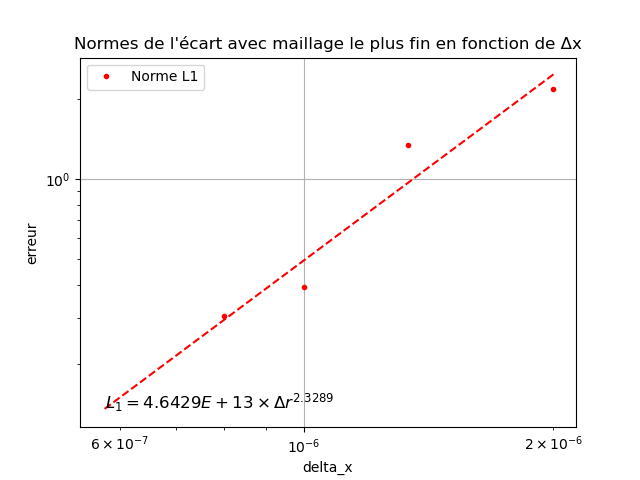
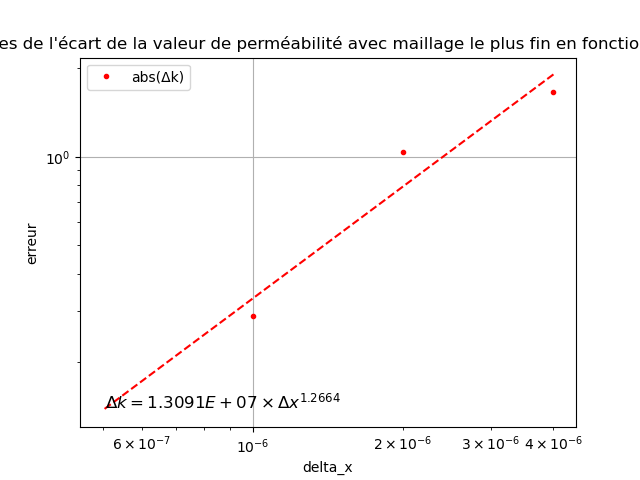
modified code for Question A, considered working version

diff --git a/src/plot_convergence_study.py b/src/plot_convergence_study.py
@@ -61,10 +61,10 @@ for i in range(0,len(erreur_vect_L1)):
 print(erreur_vect_L1)
 
 plt.figure(1)
-plt.loglog(array_x_conv[:-2], erreur_vect_L1[:-2], '.r', label = "Norme L1")
+plt.loglog(array_x_conv[:-1], erreur_vect_L1[:-1], '.r', label = "abs(Δk)")
 
 # Ajuster une loi de puissance à toutes les valeurs (en utilisant np.polyfit avec logarithmes)
-coefficients = np.polyfit(np.log(array_x_conv[0:-2]), np.log(erreur_vect_L1[0:-2]), 1)
+coefficients = np.polyfit(np.log(array_x_conv[0:-1]), np.log(erreur_vect_L1[0:-1]), 1)
 exponent_logreg = coefficients[0]
 constant_logreg = coefficients[1]
 
@@ -79,14 +79,14 @@ extrapolated_value = fit_function(array_x_conv[-1])
 plt.loglog(array_x_conv, fit_function(array_x_conv), linestyle='--', color='r')
 
 # Afficher l'équation de la régression en loi de puissance pour la norme L1
-equation_text = f'$L_1 = {np.exp(constant_logreg):.4E} \\times Δr^{{{exponent_logreg:.4f}}}$'
+equation_text = f'$Δk = {np.exp(constant_logreg):.4E} \\times Δx^{{{exponent_logreg:.4f}}}$'
 equation_text_obj = plt.text(0.05, 0.05, equation_text, fontsize=12, transform=plt.gca().transAxes, color='k')
 
 plt.xlabel("delta_x")
 plt.ylabel("erreur")
 plt.legend()
 plt.grid()
-plt.title("Normes de l'écart avec maillage le plus fin en fonction de Δx")
+plt.title("Normes de l'écart de la valeur de perméabilité avec maillage le plus fin en fonction de Δx")
 plt.savefig(outputFolder+"etude_convergence_L1.png")
 
 plt.show()

diff --git a/src/QA.m b/src/QA.m
@@ -17,7 +17,7 @@
 
 
 %% definition of convergence study arrays
-nx_array = [100,150,200,250,300,350]; % number of points
+nx_array = [50,100,200,400]; % number of points
 dx_array = 2.0e-4./nx_array; % grid size in m
 
 %% other inputs
@@ -41,10 +41,11 @@ for i_convstud = 1:length(nx_array)
     disp(i_convstud)
     NX = nx_array(i_convstud);
     dx = dx_array(i_convstud);
-    [d_equivalent]=Generate_sample(seed,filename,mean_fiber_d,std_d,poro,NX,dx);
+    filename_temp = strcat('fiber_mat',int2str(i_convstud),'.tiff')
+    [d_equivalent]=Generate_sample(seed,filename_temp,mean_fiber_d,std_d,poro,NX,dx);
 
     % calculation of the flow field and the permeability from Darcy Law
-    outtemp = LBM(filename,NX,deltaP,dx,d_equivalent);
+    outtemp = LBM(filename_temp,NX,deltaP,dx,d_equivalent);
     poro_out_array(i_convstud) = outtemp(1);
     Re_out_array(i_convstud) = outtemp(2);
     k_out_array(i_convstud) = outtemp(3);

diff --git a/src/Generate_sample.m b/src/Generate_sample.m
@@ -117,9 +117,31 @@ end
 
 function [nb_fiber,dist_d,poro_eff,d_equivalent]=distribution_of_fiber(mean_d,std_d,poro,nx,dx)
 
-dist=normrnd(mean_d,std_d,[1,10000]);
+dist=normrnd(mean_d,std_d,[1,1000000]);
 nb_fiber=1;
 poro_eff=1-sum(dist(1:nb_fiber).^2/4*pi)/(nx*dx)^2;
+
+% while poro_eff >= poro
+%     poro_eff_old=poro_eff;
+%     nb_fiber=nb_fiber+10000;
+%     poro_eff=1-sum(dist(1:nb_fiber).^2/4*pi)/(nx*dx)^2;
+% end
+
+% disp('finished first loop for generating distribution')
+
+% nb_fiber=nb_fiber-10000;
+% poro_eff=1-sum(dist(1:nb_fiber).^2/4*pi)/(nx*dx)^2;
+
+% while poro_eff >= poro
+%     poro_eff_old=poro_eff;
+%     nb_fiber=nb_fiber+100;
+%     poro_eff=1-sum(dist(1:nb_fiber).^2/4*pi)/(nx*dx)^2;
+% end
+
+% disp('finished second loop for generating distribution')
+
+% nb_fiber=nb_fiber-100;
+% poro_eff=1-sum(dist(1:nb_fiber).^2/4*pi)/(nx*dx)^2;
 
 while poro_eff >= poro
     poro_eff_old=poro_eff;

diff --git a/src/LBM.m b/src/LBM.m
@@ -54,7 +54,7 @@ k_in_micron2=mean(ux(1:NX))*mu/deltaP*(NX*dx)*1e12 %in micron^2
 out = [poro_eff, Re, k_in_micron2];
 
 % Vector plot of the flow field 
-%ux(SOLID)=0; uy(SOLID)=0;ux=reshape(ux,NX,NY)';uy=reshape(uy,NX,NY)';
-%figure(2);clf;hold on;colormap(gray(2));image(2-reshape(SOLID,NX,NY)');
-%quiver(1:NX,1:NY,ux,uy,1.5,'b');axis([0.5 NX+0.5 0.5 NY+0.5]);axis image;
-%title(['Velocity field after ',num2str(t_),' time steps']);
+ux(SOLID)=0; uy(SOLID)=0;ux=reshape(ux,NX,NY)';uy=reshape(uy,NX,NY)';
+figure(2);clf;hold on;colormap(gray(2));image(2-reshape(SOLID,NX,NY)');
+quiver(1:NX,1:NY,ux,uy,1.5,'b');axis([0.5 NX+0.5 0.5 NY+0.5]);axis image;
+title(['Velocity field after ',num2str(t_),' time steps']);
